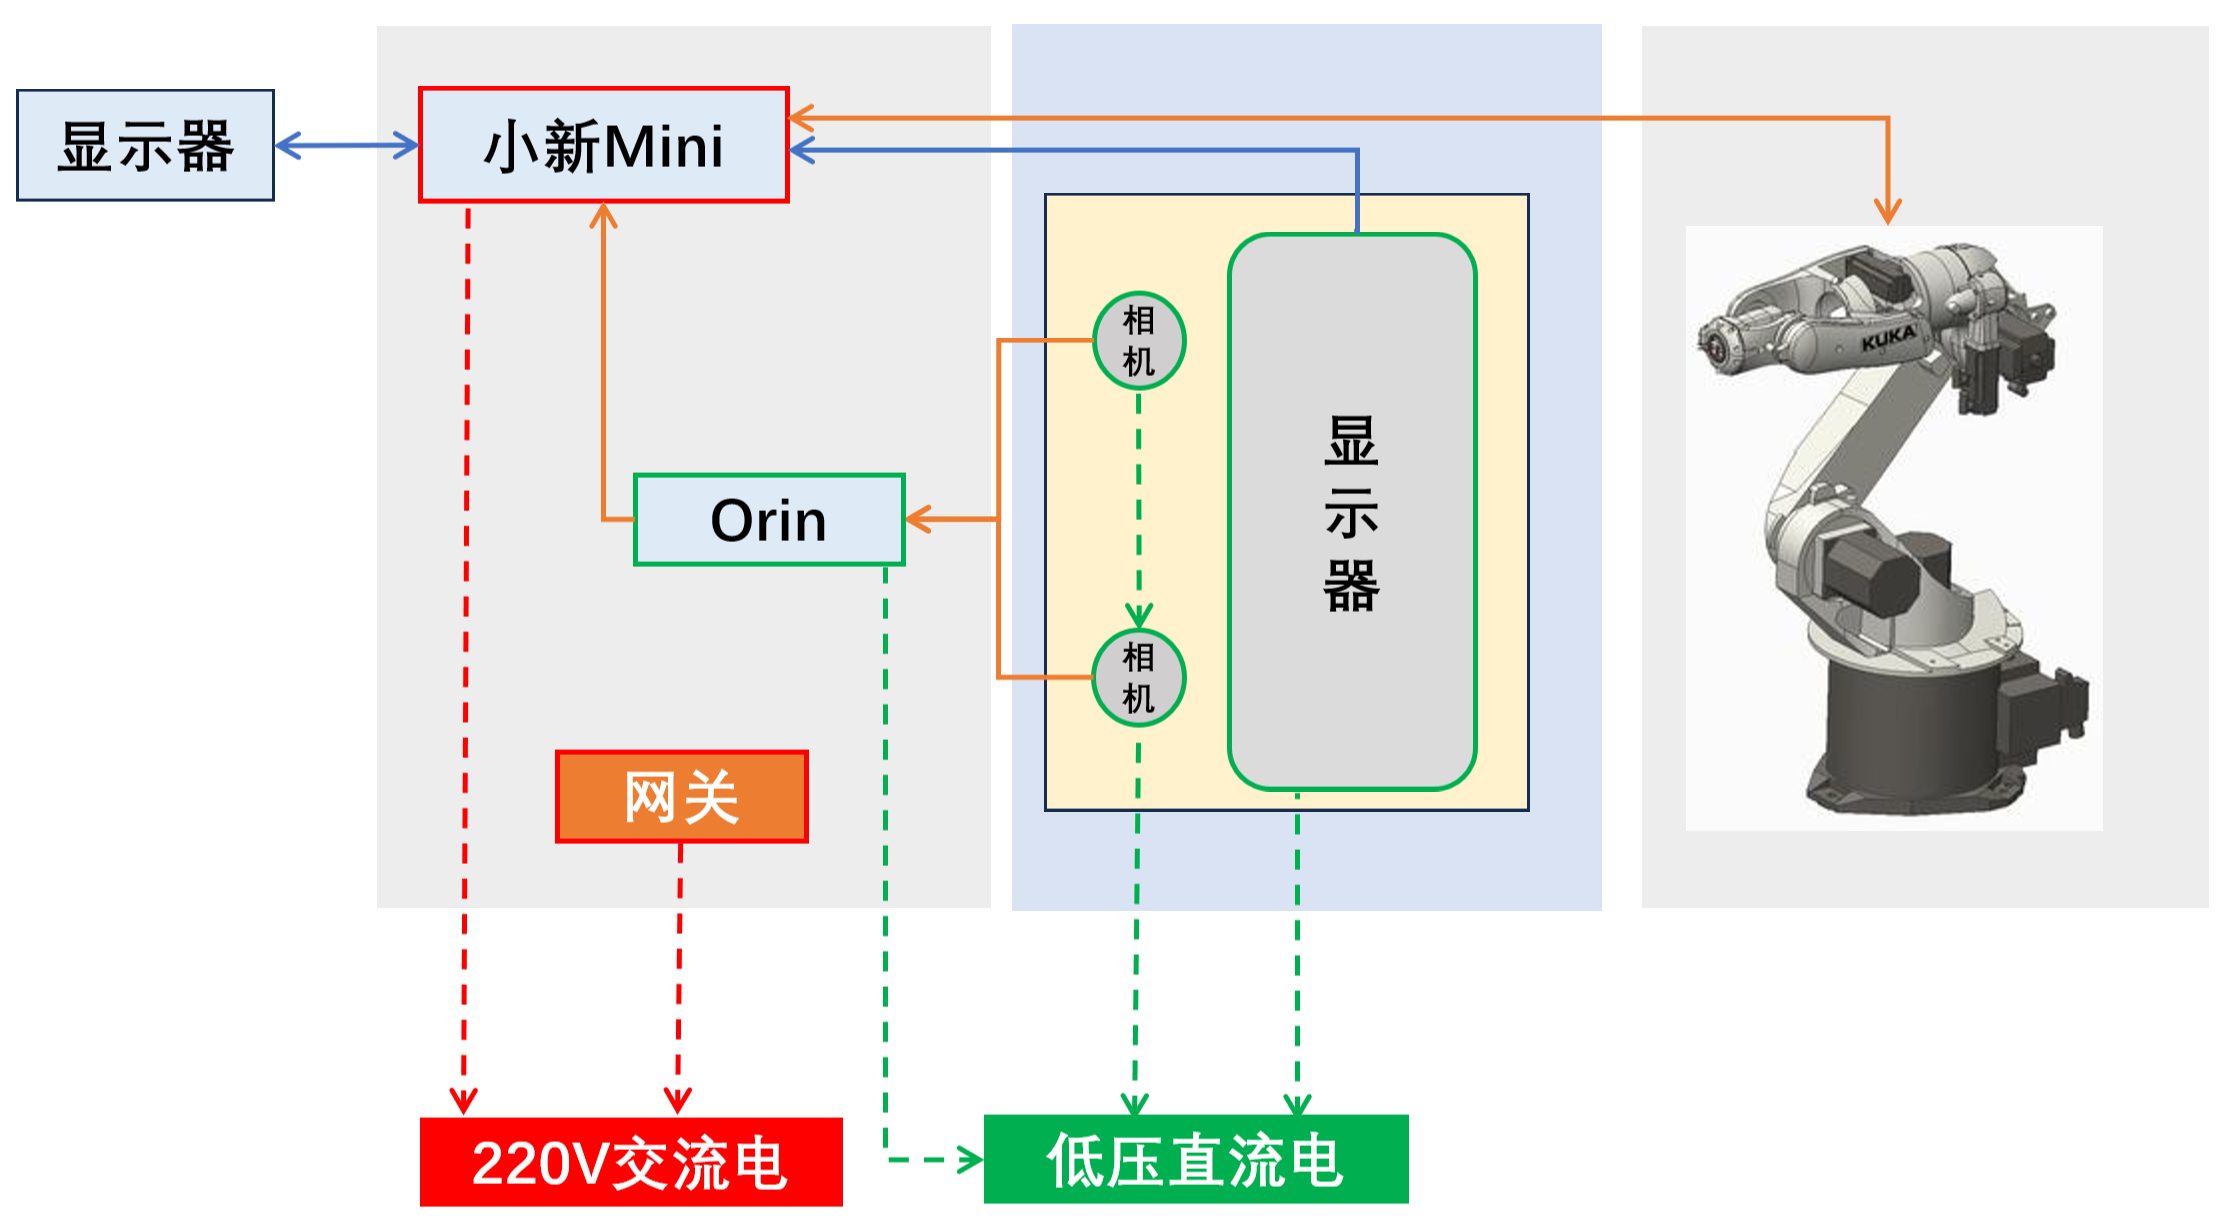
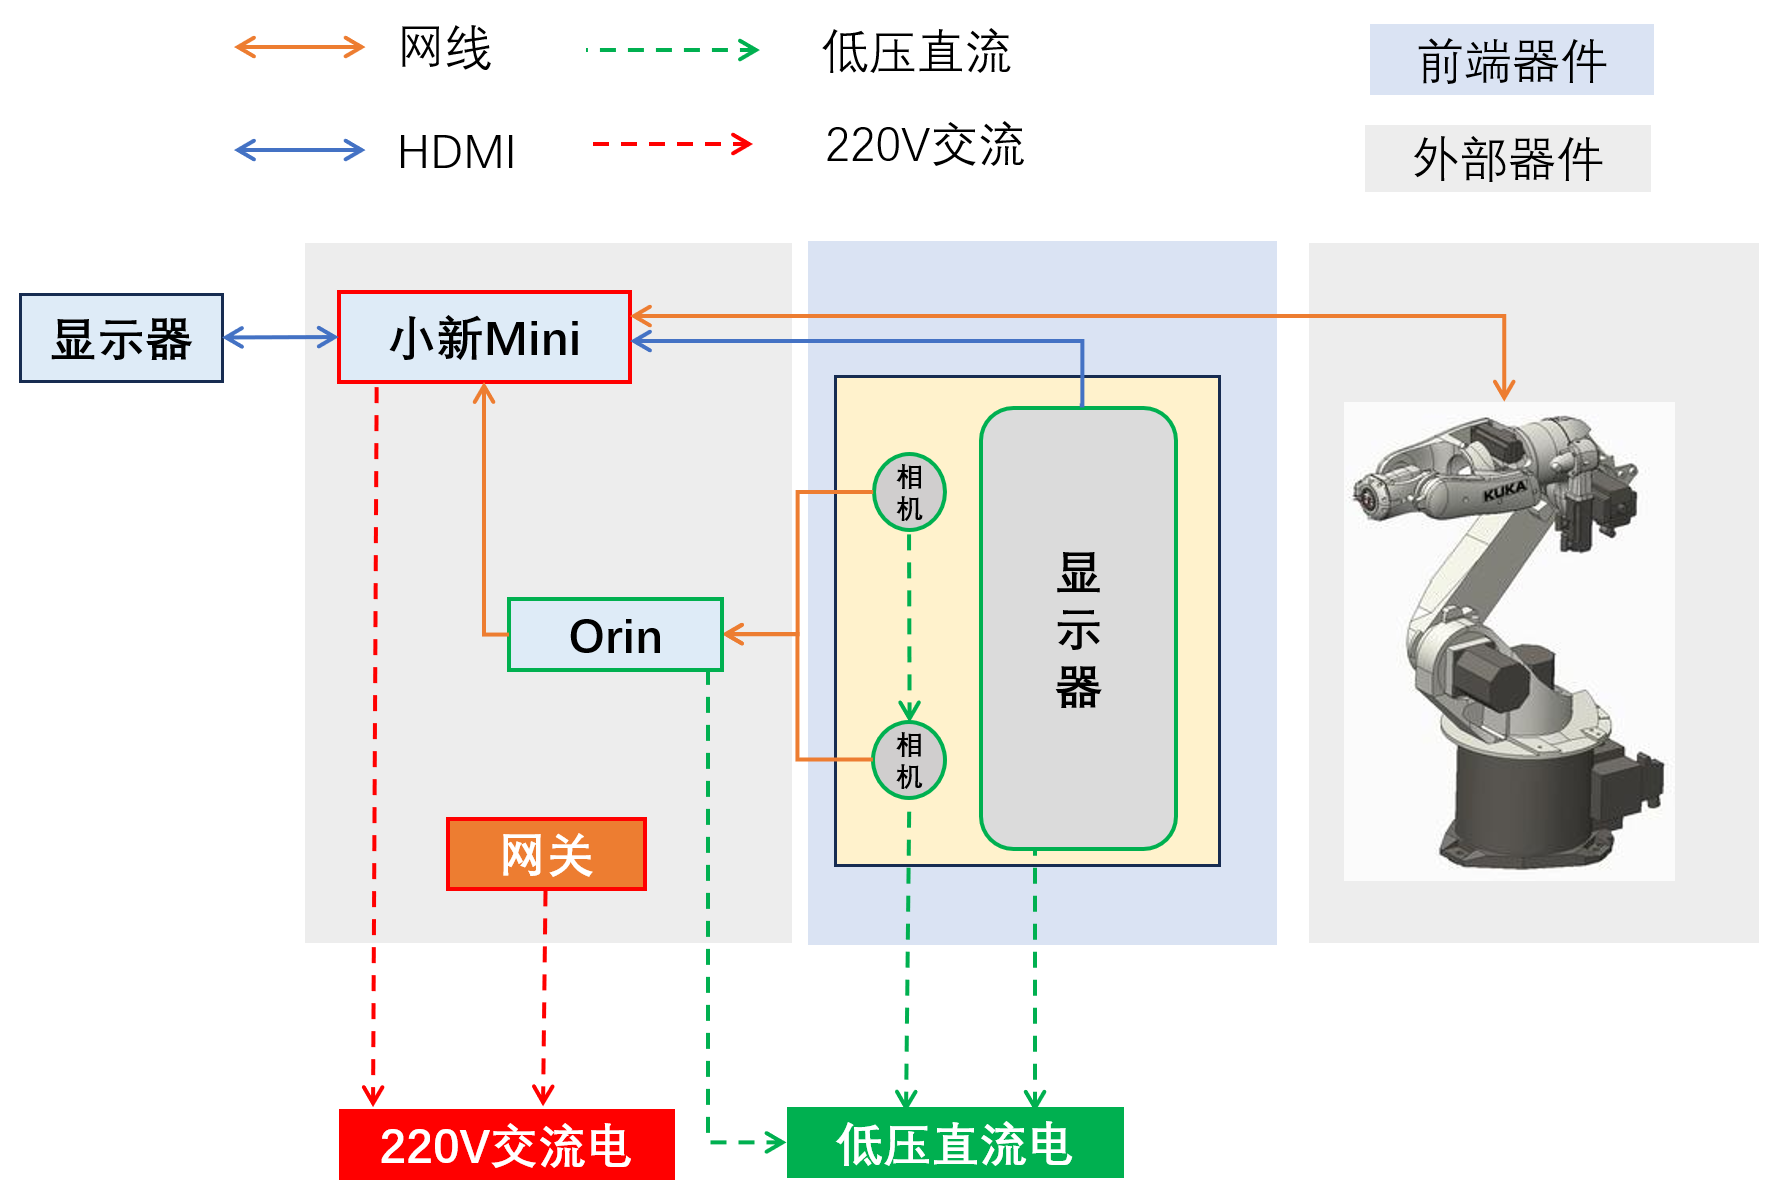
feat(docs/操作手册.md):详细说明了如何复现项目

diff --git a/framework/docs/操作手册.md b/framework/docs/操作手册.md
@@ -1,21 +1,183 @@
-## 🧠 2.代码结构基本设计思路
-1. **engine/**  
-   - 核心算法（preprocess/pmd/detect），每个子文件夹都是一个算法，
-   - 每个文件夹中包含一个xxx_api.py（下称子级api.py）调用当前目录中的算法，后续算法有改动的时候，只要对该文件调整即可
-   - main_api.py调用各个子级api.py，是整个算法处理的接口。
-   - client.py拍摄完图像后单独开一个线程，调用main_api.py进行处理
-   - 后续添加：  
-     - 豪杰成像算法  
-     - 赵航机械臂规划算法  
+# 📘 漆面缺陷智能检测系统 - 操作手册 (User Manual)
 
-2. **core/**  
-   - 负责执行逻辑的代码放在core中，即core中的文件只负责调用，尽量保持简洁。
-   - 若涉及到新的硬件/模块，将其放在module中
-   - 示例：`client.py`调用`pmd_run.py`  
+本文档旨在指导操作人员完成**硬件连接、环境配置、系统启动及常规作业**。在首次运行系统前，请务必完整阅读本手册。
 
-3. **core与engine的协作**  
-   - 算法类执行通过子线程执行。即core中的文件，调用其他模块中的文件执行函数
-   - 减少通过文件传输中间变量的过程以及读写类操作
+---
+
+## 目录 (Table of Contents)
+1. [🔌 硬件连接与准备](#1-硬件连接与准备)
+2. [💻 主机环境搭建 (Windows)](#2-主机环境搭建-windows)
+3. [⚡ 从机环境搭建 (Jetson Orin)](#3-从机环境搭建-jetson-orin)
+4. [🤖 机械臂操作指南](#4-机械臂操作指南)
+5. [🚀 系统启动标准流程 (SOP)](#5-系统启动标准流程-sop)
+6. [🖥 软件界面说明](#6-软件界面说明)
+7. [🔧 常见故障排查](#7-常见故障排查)
+
+---
+
+## 1. 🔌 硬件连接与准备
+
+### 1.1 物理连接
+请参考下方的硬件连接拓扑图进行接线：
+
+> ![硬件连接拓扑图](/assets/Hardware_connection.png)
+> ![硬件连接实物图](/assets/Hardware_connection_reality.png)
+
+
+### 1.2 启动前检查清单 (Checklist)
+- [ ] **电源检查**：主机、从机、屏幕、相机、交换机、机械臂控制柜均已上电。
+- [ ] **LCD屏幕**：主机以 HDMI 线和 DP 线分别连接投影屏幕和用于UI界面展示的屏幕。
+- [ ] **相机**：两台 Basler 相机指示灯为绿色（或闪烁）。
+- [ ] **网络**：网线连接稳固（必须是万兆网线），交换机已供电。
+- [ ] **机械臂**：急停按钮已旋开，处于待机状态。
+
+---
+
+## 2. 💻 主机环境搭建 (Windows)
+**注：当前小新主机已装好所需环境，项目位于 `D:\Project\CarPaintDetection`，以下步骤用于在其他设备搭建环境时参考。**
+### 2.1 基础环境及依赖
+本项目在 Windows 主机端强烈推荐使用 `uv` 进行环境管理，以实现秒级依赖安装。
+
+**第一步：安装 uv 工具**
+
+在 PowerShell 中运行以下命令安装 uv：
+```powershell
+powershell -c "irm [https://astral.sh/uv/install.ps1](https://astral.sh/uv/install.ps1) | iex"
+```
+安装完成后，关闭并重新打开终端，输入 `uv --version` 确认安装成功。
+
+**第二步：项目部署与依赖安装**
+
+获取代码：将项目代码 Clone 或下载至本地。
+
+一键配置：进入项目根目录 (CarPaintDetection/)，直接运行 `uv sync`，该命令会自动创建虚拟环境并安装所有锁定版本的依赖，无需手动激活环境。
 
 
 
+
+
+### 2.2 网络配置 (⚠ 关键步骤)
+为了保证 Socket 通信稳定，主机必须配置静态 IP。
+
+1.  打开 **控制面板** -> **网络和共享中心** -> **更改适配器设置**。
+2.  找到连接从机的网口（通常显示为“未识别的网络”），右键 -> **属性**。
+3.  双击 **Internet 协议版本 4 (TCP/IPv4)**。
+4.  配置如下：
+    * **IP 地址**: `10.18.18.10`
+    * **子网掩码**: `255.255.255.0`
+    * **默认网关**: (留空)
+5.  **关闭防火墙**：请关闭专用/公用网络的防火墙，或手动放行 TCP端口 **4096** 和 **4097**。
+
+---
+
+## 3. ⚡ 从机环境搭建 (Jetson Orin)
+**注：当前Jetson Orin从机已装好所需环境，项目位于 `/home/nvidia/Project/CarPaintDetection`，以下步骤用于在其他设备搭建环境时参考。**
+
+### 3.1 基础环境及依赖
+1. Jetson Orin不建议采用 `uv` 管理依赖，确保 Jetson Orin 已刷入 Jetpack 系统，配合conda进行环境的安装。
+
+2.  **Basler Pylon Viewer** ：[官方下载链接](https://www.baslerweb.cn/zh-cn/downloads/software/?downloadCategory.values.label.data=pylon)
+    * *用于安装相机驱动及测试相机是否正常。*
+
+
+### 3.2 网络配置与巨帧设置 
+从机不仅需要静态 IP(10.18.18.11)，还必须开启 **MTU 9000 (巨帧)** 以支持高吞吐量的图像传输。此功能已在start_client.sh脚本中实现。
+
+**从机一键启动脚本**
+项目根目录下提供了启动脚本 `start_client.sh`，它会自动执行以下命令（需要 sudo 密码，密码为 `nvidia`）：
+```bash
+sudo ifconfig eth0 down
+sudo ifconfig eth0 mtu 9000
+sudo ifconfig eth0 up
+```
+
+## 4. 🤖 机械臂操作指南
+🚧 施工中 (WIP) 本章节等待机械臂控制模块开发完成后补充。
+
+### 4.1 机械臂上电与复位
+(待补充：如何开启控制柜，如何示教归零...)
+
+### 4.2 异常恢复
+(待补充：若机械臂报错或触发急停，如何手动恢复...)
+
+## 5. 🚀 系统启动标准流程 (SOP)
+
+**第一步：启动从机 (Client)**
+在 Jetson Orin 终端中执行：
+```bash
+cd CarPaintDetection
+./start_client.sh
+```
+
+- 成功标志：终端打印 等待主机连接 Port 4096... 且无报错。
+- 注意：启动时可能需要输入 sudo 密码以设置 MTU。
+
+**第二步：启动主机 (Server)**
+在终端或命令行中执行：
+```bash
+cd CarPaintDetection
+./start_sever.bat
+```
+
+- 成功标志：启动 GUI 界面。
+- 联机状态：观察 GUI 日志区，应显示 [Control] 已连接！ 以及 [Receiver] 连接来自: 10.18.18.11。
+
+**第三步：开始检测**
+确认机械臂处于安全位置。
+在主机界面点击 "启动自动检测" 按钮。（可脱离机械臂测试，详细原理见[系统架构文档](/docs/系统架构.md)）
+系统将自动执行：机械臂移动 -> 投影条纹 -> 相机采集 -> 算法处理 -> 数据回传 -> 缺陷显示。
+
+## 6. 🖥 软件界面说明
+
+软件分为 **离线数据分析 (Offline)** 和 **在线实时监控 (Online)** 两大核心模块，通过顶部的 Tab 页签进行切换。
+
+### 6.1 📚 离线数据分析 (Offline Tab)
+用于回溯查看历史检测结果，支持交互式查看缺陷详情。
+
+> ![离线模式截图](/assets/ui_offline.png)
+
+* **左侧导航栏 (Positions)**
+    * 显示所有已保存的检测点位文件夹。
+    * **操作**：点击列表项，即可切换查看不同点位的数据。
+* **中间图像区 (Main View)**
+    * **视图切换**：顶部下拉框可选择查看 **相位图 (Phase Map)**、**拼接图 (Stitched)** 或 **原始图 (Raw)**。
+    * **交互操作**：支持鼠标滚轮缩放、拖拽移动。
+    * **缺陷标注**：图像上直接绘制红色缺陷框，鼠标点击框体可选中该缺陷。
+* **右侧详情区 (Details)**
+    * **统计面板 (Statistics)**：显示当前点位各类缺陷的数量统计。
+    * **缺陷列表 (Defect List)**：列出所有检出缺陷的 ID、类型及置信度。点击某一行，图像区会自动高亮对应缺陷。
+    * **特写视图 (Inspection)**：右下角区域，显示当前选中缺陷的局部放大特写图 (ROI)。
+
+---
+
+### 6.2 🚀 在线实时监控 (Online Tab)
+用于工业现场的实时作业监控，包含设备控制与实时反馈。
+
+> ![在线模式截图](/assets/ui_online.png)
+
+* **左侧控制区 (Controls)**
+    * **启动自动检测**：一键控制全自动检测流程（机械臂运动 -> 投影 -> 采集）。
+* **中间监控区 (Monitor)**
+    * 实时显示最新回传的检测图像。
+    * 同样支持通过下拉框切换观察视角（如查看实时相位解算结果）。
+* **右侧看板区 (Dashboard)**
+    * **点位信息**：顶部大字显示当前正在检测的 **Position ID**。
+    * **实时统计**：表格形式展示当前点位的缺陷计数。
+    * **系统日志 (System Log)**：
+        * 黑色终端窗口，实时滚动显示系统内部状态。
+        * 关键信息包括：TCP 连接状态 (`Connected/Disconnected`)、收到主机指令 (`capture_order`)、异常报错信息等。
+
+---
+
+## 7. 🔧 常见故障排查 (Troubleshooting)
+
+| 问题描述 | 可能原因 | 解决方法 |
+| :--- | :--- | :--- |
+| **启动报错 `RuntimeException: Not all cameras...`** | 1. Pylon Viewer 未关闭<br>2. 网线松动 | 1. **务必关闭 Pylon Viewer**，它会独占相机。<br>2. 重新插拔网线，确认相机灯亮。 |
+| **主机一直显示 "等待从机连接..."** | 1. 从机未启动脚本<br>2. IP 配置错误<br>3. 防火墙拦截 | 1. 确认从机 `client.py` 正在运行。<br>2. 检查主机 IP 是否为 `.10`。<br>3. 关闭主机防火墙。 |
+| **图像传输中途卡死 / 报错 `ConnectionReset`** | **MTU 设置不匹配** | 这是最常见问题。请在从机终端输入 `ifconfig` 确认 MTU 是否为 9000。如果不是，重新运行 `start_client.sh`。 |
+| **投影仪没有显示条纹，只有黑屏** | 窗口未全屏或位置错误 | 1. 确保 Windows 显示设置中为 **"扩展模式"**。<br>2. 鼠标点击一下投影画面按 `F11` 或检查 `host.py` 分辨率设置。 |
+
+---
+> 📅 **文档更新日期**: 2025-12-26
+> 📧 **技术支持**: (赵射/QQ1957972156)

diff --git a/docs/操作手册.md b/docs/操作手册.md
@@ -1,0 +1,112 @@
+# 📘 漆面缺陷智能检测系统 - 操作手册 (User Manual)
+
+本文档旨在指导操作人员完成**硬件连接、环境配置、系统启动及常规作业**。在首次运行系统前，请务必完整阅读本手册。
+
+---
+
+## 目录 (Table of Contents)
+1. [🔌 硬件连接与准备](#1-硬件连接与准备)
+2. [💻 主机环境搭建 (Windows)](#2-主机环境搭建-windows)
+3. [⚡ 从机环境搭建 (Jetson Orin)](#3-从机环境搭建-jetson-orin)
+4. [🤖 机械臂操作指南](#4-机械臂操作指南)
+5. [🚀 系统启动标准流程 (SOP)](#5-系统启动标准流程-sop)
+6. [🖥 软件界面说明](#6-软件界面说明)
+7. [🔧 常见故障排查](#7-常见故障排查)
+
+---
+
+## 1. 🔌 硬件连接与准备
+
+### 1.1 物理连接
+请参考下方的硬件连接拓扑图进行接线：
+
+> ![硬件连接拓扑图](/assets/Hardware_connection.png)
+> ![硬件连接拓扑图](/assets/Hardware_connection_reality.png)
+> *(注：请确保网线连接至万兆网口，否则会影响图像传输速度)*
+
+### 1.2 启动前检查清单 (Checklist)
+- [ ] **电源检查**：主机、从机、屏幕、相机、交换机、机械臂控制柜均已上电。
+- [ ] **LCD屏幕**：主机以 HDMI 线和 DP 线分别连接投影屏幕和用于UI界面展示的屏幕。
+- [ ] **相机**：两台 Basler 相机指示灯为绿色（或闪烁）。
+- [ ] **网络**：网线连接稳固，交换机已供电。
+- [ ] **机械臂**：急停按钮已旋开，处于待机状态。
+
+---
+
+## 2. 💻 主机环境搭建 (Windows)
+
+### 2.1 基础软件依赖
+在使用代码前，请确保安装以下工具：
+1.  **Basler Pylon Viewer** ：[官方下载链接](https://www.baslerweb.cn/zh-cn/downloads/software/?downloadCategory.values.label.data=pylon)
+    * *用于安装相机驱动及测试相机是否正常。*
+2.  **UV (Python包管理器)**：用于快速配置 Python 环境。
+    ```powershell
+    # Windows 安装命令
+    powershell -c "irm [https://astral.sh/uv/install.ps1](https://astral.sh/uv/install.ps1) | iex"
+    ```
+
+### 2.2 网络配置 (⚠ 关键步骤)
+为了保证 Socket 通信稳定，主机必须配置静态 IP。
+
+1.  打开 **控制面板** -> **网络和共享中心** -> **更改适配器设置**。
+2.  找到连接从机的网口（通常显示为“未识别的网络”），右键 -> **属性**。
+3.  双击 **Internet 协议版本 4 (TCP/IPv4)**。
+4.  配置如下：
+    * **IP 地址**: `10.18.18.10`
+    * **子网掩码**: `255.255.255.0`
+    * **默认网关**: (留空)
+5.  **关闭防火墙**：请关闭专用/公用网络的防火墙，或手动放行 TCP端口 **4096** 和 **4097**。
+
+---
+
+## 3. ⚡ 从机环境搭建 (Jetson Orin)
+
+### 3.1 基础环境
+确保 Jetson Orin 已刷入 Jetpack 系统，并安装了 Pylon for Linux。
+
+### 3.2 网络配置与巨帧设置 (⚠ 核心坑点)
+从机不仅需要静态 IP(10.18.18.11)，还必须开启 **MTU 9000 (巨帧)** 以支持高吞吐量的图像传输。此功能已在start_client.sh脚本中实现。
+
+**从机一键启动脚本**
+项目根目录下提供了启动脚本 `start_client.sh`，它会自动执行以下命令（需要 sudo 密码）：
+```bash
+sudo ifconfig eth0 down
+sudo ifconfig eth0 mtu 9000
+sudo ifconfig eth0 up
+```
+
+## 4. 🤖 机械臂操作指南
+🚧 施工中 (WIP) 本章节等待机械臂控制模块开发完成后补充。
+
+### 4.1 机械臂上电与复位
+(待补充：如何开启控制柜，如何示教归零...)
+
+### 4.2 异常恢复
+(待补充：若机械臂报错或触发急停，如何手动恢复...)
+
+## 5. 🚀 系统启动标准流程 (SOP)
+
+第一步：启动从机 (Client)
+在 Jetson Orin 终端中执行：
+bash```
+cd CarPaintDetection
+./start_client.sh
+```
+- 成功标志：终端打印 等待主机连接 Port 4096... 且无报错。
+- 注意：启动时可能需要输入 sudo 密码以设置 MTU。
+
+第二步：启动主机 (Server)
+在终端或命令行中执行：
+bash```
+cd CarPaintDetection
+./start_sever.bat
+```
+- 成功标志：启动 GUI 界面。
+- 联机状态：观察 GUI 日志区，应显示 [Control] 已连接！ 以及 [Receiver] 连接来自: 10.18.18.11。
+
+第三步：开始检测
+确认机械臂处于安全位置。
+
+在主机界面点击 "启动自动检测" 按钮。（可脱离机械臂测试，详细原理见[系统架构文档](/docs/系统架构.md)）
+
+系统将自动执行：机械臂移动 -> 投影条纹 -> 相机采集 -> 数据回传 -> 缺陷显示。

diff --git a/docs/系统架构.md b/docs/系统架构.md
@@ -1,0 +1,27 @@
+
+## 🧠 2.代码结构基本设计思路
+1. **engine/**  
+   - 核心算法（preprocess/pmd/detect），每个子文件夹都是一个算法，
+   - 每个文件夹中包含一个xxx_api.py（下称子级api.py）调用当前目录中的算法，后续算法有改动的时候，只要对该文件调整即可
+   - main_api.py调用各个子级api.py，是整个算法处理的接口。
+   - client.py拍摄完图像后单独开一个线程，调用main_api.py进行处理
+   - 后续添加：  
+     - 豪杰成像算法  
+     - 赵航机械臂规划算法  
+
+2. **core/**  
+   - 负责执行逻辑的代码放在core中，即core中的文件只负责调用，尽量保持简洁。
+   - 若涉及到新的硬件/模块，将其放在module中
+   - 示例：`client.py`调用`pmd_run.py`  
+
+3. **core与engine的协作**  
+   - 算法类执行通过子线程执行。即core中的文件，调用其他模块中的文件执行函数
+   - 减少通过文件传输中间变量的过程以及读写类操作
+
+## ❗关于包导入
+- 不同包之间的相互引用在系统复杂以后很麻烦，同学可以了解下**相对导入**和**绝对导入**这两个概念
+   - 绝对导入： from framework.engine.pmd import xxx
+   - 相对导入： from . import xxx
+- 一般而言：
+包内部调用采用相对导入（但是确保当前文件不会单独执行）
+外部调用采用绝对导入（任何需要单独执行的文件都需采用绝对导入）

diff --git a/README.md b/README.md
@@ -20,11 +20,11 @@
 
 | 组件 | 型号/规格 | 数量 | 用途 |
 |------|-----------|------|------|
-| **主机** | 联想小新Mini (Windows 11) | 1台 | 系统控制与数据可视化 |
+| **主机** | 联想小新Mini (Windows 11) | 1台 | 投射图像与、UI交互、连接机械臂 |
 | **从机** | NVIDIA Jetson Orin | 1台 | 实时图像处理与算法执行 |
-| **工业相机** | Basler a2A2448-105g5mBAS | 2台 | 高精度双视角图像采集 |
+| **工业相机** | Basler a2A2448-105g5mBAS | 2台 | 高精度双相机图像采集 |
 | **网络设备** | 万兆交换机 | 1台 | 高速数据传输 |
-| **连接线缆** | 万兆网线 (CAT 6A) | 多条 | 设备间通信 |
+| **连接线缆** | 万兆网线  | 多条 | 设备间通信 |
 
 **🔗 连接要求：**
 - 🚀 **高速通信**：所有网关与网线均需支持 **10 Gbps 万兆传输**
